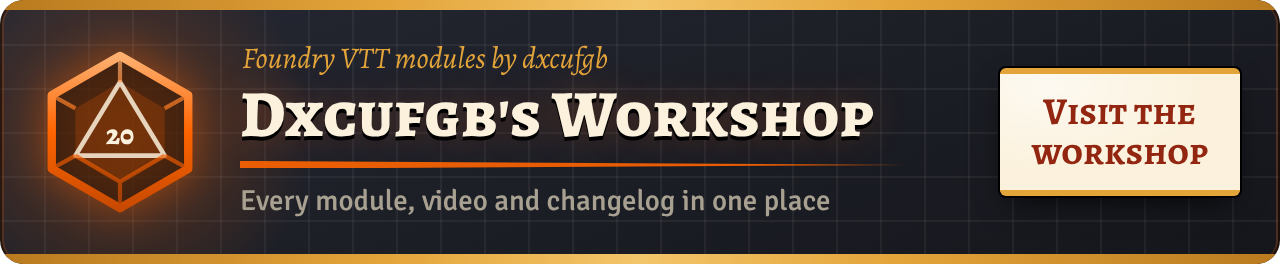
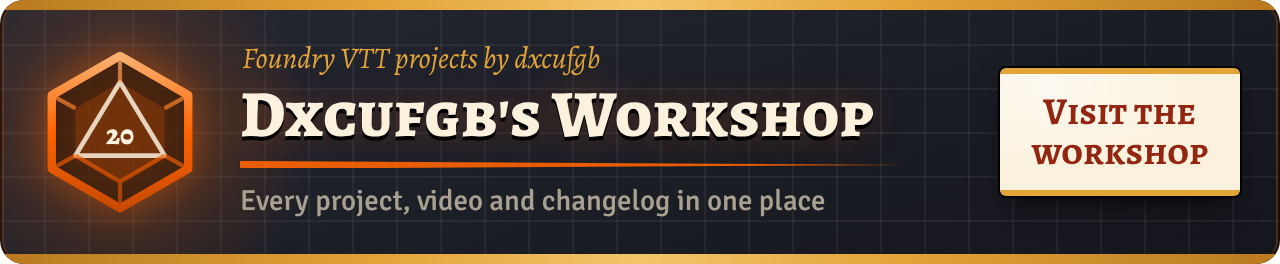
Badge: say projects instead of modules
Claude-Session: https://claude.ai/code/session_01GDjxMdpPGRqGA87nsYruXn

Changed region(s): [[0.25, 0.697, 0.6562, 0.8182], [0.3125, 0.1515, 0.4688, 0.303]]

diff --git a/README.md b/README.md
@@ -97,13 +97,13 @@ Without an API key the site reads the playlist's RSS feed, which only lists the 
 `assets/img/workshop-badge.png` is a badge for module READMEs. It is 1280×264 pixels, made to show at 640 pixels wide. Paste this into a README:
 
 ```html
-<a href="https://dxcufgb.github.io/FVTT-dev-showcase/"><img src="https://dxcufgb.github.io/FVTT-dev-showcase/assets/img/workshop-badge.png" alt="Dxcufgb's Workshop: every Foundry VTT module, video and changelog in one place" width="640"></a>
+<a href="https://dxcufgb.github.io/FVTT-dev-showcase/"><img src="https://dxcufgb.github.io/FVTT-dev-showcase/assets/img/workshop-badge.png" alt="Dxcufgb's Workshop: every Foundry VTT project, video and changelog in one place" width="640"></a>
 ```
 
 YouTube descriptions can't show images, so use a text line there:
 
 ```
-🎲 All my Foundry VTT modules, videos and changelogs: https://dxcufgb.github.io/FVTT-dev-showcase/
+🎲 All my Foundry VTT projects, videos and changelogs: https://dxcufgb.github.io/FVTT-dev-showcase/
 ```
 
 ## Rebuild right after a release (optional)
